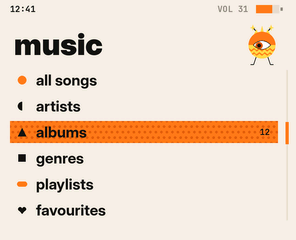
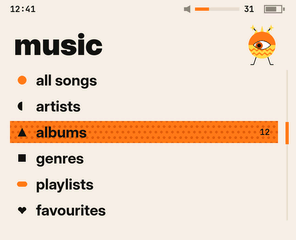
PLAN: volume bar instead of a pop-up, Select + wheel, pet settings
Owner's answers and notes:
- Highlight mix: each menu entry gets a texture when it comes on screen,
  keeping it until it scrolls off.
- An adult takes a quadrant's form at 30 % of the listening, otherwise
  neutral.
- The pet page is Settings > Pet.
- Moon, sapling and whaleian for now; other species are a to-do.
- No volume pop-up: the wheel only updates the status bar's volume bar,
  which frees the pop-up's ~14 MB of images.
- Hold Select to make the wheel fast-scroll. The wheel and the buttons
  are separate hardware, but stock GetKey only polls the wheel when no
  button is down (traced on V1.8.3), so it needs a small patch and
  Select's own action moves to release.

The mock-ups now show the volume bar and battery icon, the trimmed Look
rows, the three-species picker and the pet page's gallery / new pet keys.

Claude-Session: https://claude.ai/code/session_01GwW98uCXgtToVDTVv1jSQm

Changed region(s): [[0.6081, 0.0, 0.973, 0.0583]]

diff --git a/amuletos/art/mockups/colourways.py b/amuletos/art/mockups/colourways.py
@@ -6,7 +6,7 @@ import numpy as np
 from PIL import Image, ImageDraw, ImageFont, ImageChops
 import forms as m4
 from forms import m, m3, P, txt, tw, hx, mix, comp, finish, almond, U, BLACK, BOLD, SEMI, MED, MONO, leaf, star_pts
-from black_orange import hbar
+from black_orange import hbar, status as bo_status
 
 OUT = os.environ.get('OUT', 'out6')
 W, H = m.W, m.H
@@ -38,12 +38,7 @@ def C(c): return T[c] if isinstance(c, str) else c
 def canvas(): return Image.new('RGBA', (P(W), P(H)), T['bg'])
 
 def status(cv, vol=31, bat=0.7):
-    d = ImageDraw.Draw(cv, 'RGBA')
-    txt(d, 10, 9, '12:41', 8.5, T['text'], MONO)
-    txt(d, 248, 9, f'VOL {vol}', 8.5, T['dim'], MONO, h='r')
-    d.rectangle([P(256), P(5), P(279), P(13)], fill=T['panel'])
-    d.rectangle([P(256), P(5), P(256 + 23 * bat), P(13)], fill=T['bars'][0])
-    d.rectangle([P(280.5), P(7.5), P(282.5), P(10.5)], fill=T['dim'])
+    bo_status(cv, vol, bat, T['text'], T['dim'], T['panel'], T['bars'][0])
 
 def bar(cv, x0, y0, x1, y1, tex, k=0):
     hbar(cv, x0, y0, x1, y1, tex, T['bars'][k % len(T['bars'])], T['texs'][k % len(T['texs'])])
@@ -294,8 +289,8 @@ def colourway(name, tex):
 
 def look_page():
     use('black')
-    cv = menu('look', ['colours', 'highlight', 'creature', 'show creature', 'eye follows you', 'album art'], 0, 'lines',
-              crumb='SETTINGS', values=['black & orange', 'mix', 'moon  ›', 'on', 'on', 'square'], y0=74, pitch=22)
+    cv = menu('look', ['colours', 'highlight', 'show creature', 'eye follows you', 'album art'], 0, 'lines',
+              crumb='SETTINGS', values=['black & orange', 'mix', 'on', 'on', 'square'], y0=76, pitch=24)
     d = ImageDraw.Draw(cv, 'RGBA')
     txt(d, 14, 203, 'COLOURWAYS', 7, T['dim'], MONO, track=1)
     for i, k in enumerate(['black', 'paper', 'eva', 'aqua', 'candy']):
@@ -351,28 +346,27 @@ def gallery_choose():
     return cv
 
 # ---------------------------------------------------------------- creature picker with the whaleian
-def picker(sel=5):
+def picker(sel=2):
+    """new pet: the three species for now (more later)"""
     use('black')
     cv = canvas()
     d = ImageDraw.Draw(cv, 'RGBA')
     status(cv)
     txt(d, 14, 32, 'pick a creature', 16, T['text'])
-    ORANGE, CREAM, DEEP = T['body'], T['light'], T['deep']
-    picks = [('moon', None), ('arch', (ORANGE, CREAM, DEEP)), ('sapling', None), ('dome', (CREAM, ORANGE, DEEP)),
-             ('star', (ORANGE, CREAM, DEEP)), ('whaleian', None)]
-    for i, (k, cols) in enumerate(picks):
-        cx0, cy0 = 10 + (i % 3) * 96, 46 + (i // 3) * 86
+    for i, k in enumerate(['moon', 'sapling', 'whaleian']):
+        cx0, cy0 = 8 + i * 94, 48
         on = i == sel
-        if on: d.rectangle([P(cx0), P(cy0), P(cx0 + 92), P(cy0 + 82)], fill=T['panel'])
-        ccx, ccy = cx0 + 46, cy0 + 34
-        if k == 'moon': moon(cv, ccx, ccy, 22, 4, 'neutral', 1 if on else 0, (0, 0.3))
-        elif k == 'sapling': sapling(cv, ccx, ccy + 1, 23, 4, 'neutral', 1 if on else 0, (0.5, 0.3), (-0.5, 0.3))
-        elif k == 'whaleian': whale(cv, ccx, ccy + 2, 23, 4, 'neutral', 1 if on else 0, (0, 0.3))
-        else: m.creature(cv, k, ccx, ccy, 22, cols, opn=1 if on else 0, **({'bg': T['panel'] if on else T['bg']} if k == 'arch' else {}))
+        if on: d.rectangle([P(cx0), P(cy0), P(cx0 + 90), P(cy0 + 150)], fill=T['panel'])
+        ccx, ccy = cx0 + 45, cy0 + 64
+        if k == 'moon': moon(cv, ccx, ccy, 32, 4, 'neutral', 1 if on else 0, (0, 0.3))
+        elif k == 'sapling': sapling(cv, ccx, ccy + 2, 34, 4, 'neutral', 1 if on else 0, (0.5, 0.3), (-0.5, 0.3))
+        else: whale(cv, ccx, ccy + 2, 34, 4, 'neutral', 1 if on else 0, (0, 0.3))
         d = ImageDraw.Draw(cv, 'RGBA')
-        if on: d = bar(cv, cx0, cy0 + 66, cx0 + 92, cy0 + 82, 'dots')
-        txt(d, ccx, cy0 + 74, k, 11, T['bartext'] if on else T['dim'], BOLD, h='m')
-    txt(d, 14, 229, 'or none: hide the creature in Settings > Look', 8.5, T['dim'], MED)
+        if on: d = bar(cv, cx0, cy0 + 126, cx0 + 90, cy0 + 150, 'dots')
+        txt(d, ccx, cy0 + 138, k, 13, T['bartext'] if on else T['dim'], BOLD, h='m')
+        st = {'moon': 'from an egg', 'sapling': 'from a seed', 'whaleian': 'from a drop'}[k]
+        txt(d, ccx, cy0 + 112, st, 8, T['text'] if on else T['dim'], MED, h='m')
+    txt(d, 14, 226, 'grows on what you play · more species later', 8.5, T['dim'], MED)
     return cv
 
 QUADS = [('bright_calm', 74, 62, 'bright & calm'), ('bright_intense', 222, 62, 'bright & intense'),

diff --git a/amuletos/art/mockups/black_orange.py b/amuletos/art/mockups/black_orange.py
@@ -17,13 +17,19 @@ m.PAPER = CREAM
 
 def canvas(bg=BG): return Image.new('RGBA', (P(W), P(H)), bg)
 
-def status(cv, vol=31, bat=0.7):
+def status(cv, vol=31, bat=0.7, text=None, dim=None, track=None, acc=None):
+    """clock left; volume bar + number (the wheel only ever updates this, no pop-up); battery icon"""
+    text, dim, track, acc = text or CREAM, dim or GREY, track or CHAR, acc or ORANGE
     d = ImageDraw.Draw(cv, 'RGBA')
-    txt(d, 10, 9, '12:41', 8.5, CREAM, MONO)
-    txt(d, 248, 9, f'VOL {vol}', 8.5, GREY, MONO, h='r')
-    d.rectangle([P(256), P(5), P(279), P(13)], fill=CHAR)
-    d.rectangle([P(256), P(5), P(256 + 23 * bat), P(13)], fill=ORANGE)
-    d.rectangle([P(280.5), P(7.5), P(282.5), P(10.5)], fill=GREY)
+    txt(d, 10, 9, '12:41', 8.5, text, MONO)
+    d.rectangle([P(184), P(7.3), P(186.6), P(10.7)], fill=dim)
+    d.polygon([(P(186.6), P(7.3)), (P(190), P(5.2)), (P(190), P(12.8)), (P(186.6), P(10.7))], fill=dim)
+    d.rectangle([P(195), P(7.5), P(239), P(10.5)], fill=track)
+    d.rectangle([P(195), P(7.5), P(195 + 44 * vol / 100), P(10.5)], fill=acc)
+    txt(d, 244, 9, str(vol), 8.5, text, MONO)
+    d.rectangle([P(264), P(5), P(282), P(13)], outline=dim, width=P(1))
+    d.rectangle([P(283), P(7.5), P(284.6), P(10.5)], fill=dim)
+    d.rectangle([P(265.8), P(6.8), P(265.8 + 14.4 * bat), P(11.2)], fill=dim)
 
 # ---------------------------------------------------------------- the highlight: a plain bar with a printed texture
 def hbar(cv, x0, y0, x1, y1, tex='dots', col=ORANGE, tcol=DEEP):

diff --git a/amuletos/art/mockups/forms.py b/amuletos/art/mockups/forms.py
@@ -251,7 +251,8 @@ def pet_page():
     txt(d, mx, y1 + 7, 'DARK', 6.5, GREY, MONO, h='m', track=0.8)
     txt(d, x0 - 3, my, 'CALM', 6.5, GREY, MONO, h='r', track=0.5)
     txt(d, x1 + 3, my, 'INT.', 6.5, GREY, MONO, track=0.5)
-    txt(d, X, 222, 'each dot is a track it ate', 8.5, GREY, MED)
+    txt(d, X, 214, 'each dot is a track it ate', 8, GREY, MED)
+    txt(d, X, 229, 'A GALLERY · START NEW PET', 6.8, CREAM, MONO, track=0.4)
     return cv
 
 PICK = [('moon', 'moon'), ('arch', (ORANGE, CREAM, DEEP)), ('sapling', 'sapling'),

diff --git a/amuletos/PLAN.md b/amuletos/PLAN.md
@@ -68,22 +68,22 @@ candy bowl, patchwork vinyl cubes, a neon resin table and sun-face cosmetics.
 
 - **Highlight on scrolling menus:** a plain rectangle in the highlight colour, printed in a darker shade with dots,
   diagonal lines or waves, after the candy bowl. Settings › Look › highlight:
-  - **mix** (default): each list gets one of the three at random;
+  - **mix** (default): each menu entry gets one of the three at random when it comes on screen. It keeps that one
+    while it stays visible and gets a new one after scrolling off and back;
   - dots, lines or waves: always that one;
   - plain: no texture.
-
-  Still open: whether mix picks again every time a screen opens, or keeps one per screen.
+- **Volume: no pop-up.** Turning the wheel only updates the volume bar in the status bar (a bar plus the number).
+  The battery gets its own small icon; in the first mock-ups the bar next to the number was the battery.
 - **The creature** ([the pet](#the-pet)) appears on most screens:
   - in the middle of the home screen;
   - in the corner of lists, looking at the highlighted row;
   - at the end of Now Playing's progress line, watching the playhead.
 
   Its eye looks where you point. Settings › Look can turn that off ("eye follows you") or hide the creature
-  ("show creature").
+  ("show creature"). Everything else about it is in Settings › Pet.
 - **Creatures take the colourway's colours.** It is the same creature through a different lens; the gallery does not
   record colours.
-- **Settings › Look rows:** colours, highlight, creature (opens the gallery), show creature, eye follows you,
-  album art (square or blob).
+- **Settings › Look rows:** colours, highlight, show creature, eye follows you, album art (square or blob).
 - **On the device:**
   - Blobs, bars, textures and fixed labels are pre-drawn images.
   - Text that changes (titles, artists, list rows) needs our own smooth text drawing, since the stock font is 1-bit.
@@ -91,7 +91,7 @@ candy bowl, patchwork vinyl cubes, a neon resin table and sun-face cosmetics.
   - The creature is drawn from small parts at paint time: body, belly pattern, feelers or crest, one eye per look
     direction. There is no image per combination.
   - Colourways are palette tables used when drawing, plus pre-drawn images per colourway. Flash room comes from
-    the [image audit](#step-6-themes-sleep-timer-adventures-extras): drawing the volume pop-up in code frees about
+    the [image audit](#step-6-themes-sleep-timer-adventures-extras): dropping the volume pop-up frees about
     14 MB.
 
 ---
@@ -414,8 +414,12 @@ pink, Black & orange, EVA-01, Light, Dark).
   | Leftover recording art: mic animation 310–323, MIC REC / LINE IN 116/117, record screen 107, mic icons 223/233/243 | 20 | 413 KB |
   | Leftover FM radio art: 7-segment digits + MHZ 294–305, dial 306–308, Manual/Preset 175/177 | 17 | 127 KB |
 
-  - **Drawing the volume pop-up in code** (one small ring + number, themed colours) frees ~14 MB: room for all six
-    themes several times over.
+  - **No volume pop-up** (decided 2026-11-27): the wheel only updates the status bar's volume bar. Its 101 images
+    (~14 MB) can go: room for all five colourways several times over.
+    - Stock (V1.8.3): `GetKey` (0x03063282) posts message 1, the volume overlay, when the wheel turns
+      (0x03063398–0x030633AE). It closes the overlay 300 ticks later (0x03063290–0x030632B8).
+    - Plan: stop posting message 1 and repaint only the status bar's volume. Where each screen paints message 1 is
+      still to trace.
   - The recording/radio screens themselves are empty modules (tasks 4, 5, 7 → modules 13, 28, 29 have no code), but
     check that no live code draws these ids before reusing their space.
 - Later: SD theme packs (`/_Themes/<name>/`) via a hook in stock's image loader.
@@ -459,6 +463,27 @@ pink, Black & orange, EVA-01, Light, Dark).
   - hold = stock power-off, unchanged.
 - Auto screen-off timer stays.
 
+**Hold Select to change what the wheel does** (owner's request, 2026-11-27):
+- The wheel alone sets the volume, everywhere. **Select held + wheel = fast scroll** in lists. Also worth having:
+  Select + wheel seeks on Now Playing (to confirm).
+- Fast scroll, proposed: a letter at a time in alphabetical lists, with a big letter on screen while scrolling (as
+  on 00s players); a page at a time in other lists (to confirm).
+- **The hardware allows it:** the face buttons share one resistor ladder (one at a time), but the wheel is a separate
+  quadrature encoder, so Select and the wheel can be read together ([HARDWARE.md](docs/HARDWARE.md)).
+- **Stock code blocks it** (V1.8.3, traced 2026-11-27):
+  - `GetKey` (0x03063282) only polls the wheel (0x03062D54: step counters 0x03024724 / 0x03024725, total
+    0x03024728) when no face-button event is in progress (flag word 0x03024840, bits 0–2 clear). Turns made while a
+    button is down wait in the counters.
+  - A wheel event also clears the button state (0x0302481C + 8, + 0x0C, + 0x20). Wheel events are always exactly
+    0x40000200 / 0x40000400, never combined with a button's code.
+- **Patch:** in `GetKey`, when the wheel has moved and the current ladder key (decoder 0x03062FA8) is Select,
+  return new events 0x40000202 / 0x40000402 (the wheel's code plus Select's bit) and keep Select's state. Screens
+  that don't know these events ignore them, so nothing changes the volume by accident.
+- **Select's own action moves to release.** Today it fires on press (e.g. playback options on Now Playing). With
+  the modifier, a tap (press and release with no wheel turn) runs it, and a hold with wheel turns doesn't. That
+  needs the key event types confirmed with a key-test screen: 0x40 is press and 0x30 repeat; release is not
+  confirmed yet.
+
 **Smaller extras:**
 - **Wheel click = play/pause.** The click is most likely the GPIO2 pin 5 key, which combines with face buttons.
   Confirm with a key-test screen.
@@ -475,13 +500,14 @@ This replaces the earlier "Peak" idea, which sulked when unfed, and its mock-ups
 
 A flat, symmetrical, one-eyed creature that eats the music you play and changes with it.
 - **It never gets hungry, upset or dies.** It only responds to what you listen to.
-- **Species** (pick one when starting a new pet; the mock-ups show six):
+- **Species** (pick one when starting a new pet):
   - **moon**: a disc split in two colours, thin legs, two feelers;
   - **whaleian**: a front-on whale standing on its tail with its fluke for feet, flippers, throat grooves on its
     belly and a spout. The player's mascot is a whale;
   - **sapling**: roots for feet and one trunk forking into two heads, one eye each. When you point, both heads look;
     on the forms screen they look at each other;
-  - **arch, dome, star**: drawn as adults only so far. Their young stages and five forms still need designing.
+  - To do: bring in more species. Arch, dome and star exist as adult sketches (`art/mockups/shapes.py`); each
+    needs three young stages and five adult forms.
 - **Growing up:** three young stages, then adult at **20 hours of listening**.
 
   | Species | Young stages |
@@ -494,8 +520,8 @@ A flat, symmetrical, one-eyed creature that eats the music you play and changes 
   dark ↔ bright):
   - Each track's listening time is added to that track's quadrant, using its mood scores in `/_Mood/`. Tracks
     with no score count as neutral.
-  - A quadrant with a clear lead decides the form; if none leads, the form is neutral. The threshold is still to be
-    tuned (for example 40 %).
+  - The leading quadrant decides the form if it has at least **30 %** of the listening; otherwise the form is
+    neutral.
   - Every species uses the same visual language, so the forms read alike across species:
 
   | Form | Look | Moon | Sapling | Whaleian |
@@ -508,7 +534,7 @@ A flat, symmetrical, one-eyed creature that eats the music you play and changes 
 
 - **Drifting:** an adult's form is decided again after **every 10 hours of listening**, from that block's quadrant
   shares. It changes in steps, not gradually, until you lock it in the gallery.
-- **Gallery** (Settings › Look › creature):
+- **Gallery** (Settings › Pet, then A):
   - One page per species; Left and Right switch species. Each page shows the species' eight forms (three young,
     five adult).
   - Forms you have met show the date you first met them. The others are silhouettes marked ???.
@@ -516,8 +542,8 @@ A flat, symmetrical, one-eyed creature that eats the music you play and changes 
   - A on a met form offers: **keep this form**, **start a new pet**, or back.
     - Keep this form: the pet takes that form and stops drifting until you pick again.
     - Start a new pet: opens the species picker; the new pet starts at its first stage.
-- **Pet page:** its name, stage or form, hours eaten, and what it ate as dots on a small mood map with each
-  quadrant's share. Where it sits in the menus is still open: Games, as planned for Peak, or Settings › Look.
+- **Pet page: Settings › Pet.** It shows the pet's name, stage or form, hours eaten, and what it ate as dots on a
+  small mood map with each quadrant's share. A opens the gallery; Start starts a new pet.
 - **On the device:**
   - Counting needs each track's quadrant when the track changes. Plan:
     - the PC mood tool also writes a compact lookup from a file's first cluster to its quadrant;
